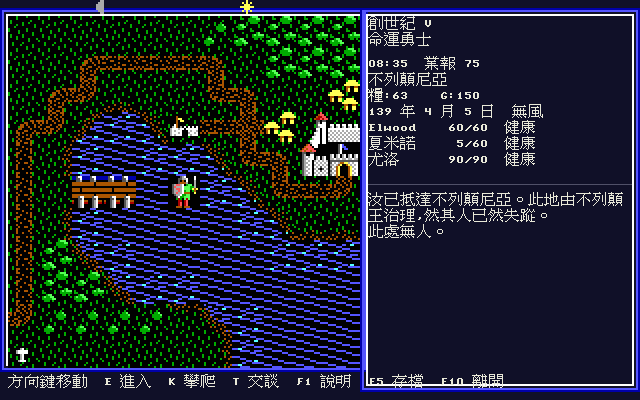
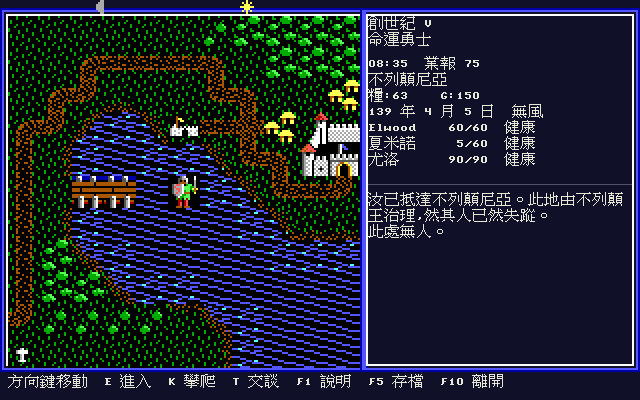
修正古典版 footer layout 並更新 README 截圖

Changed region(s): [[0.5625, 0.9, 1.0, 0.99]]

diff --git a/internal/render/chrome.go b/internal/render/chrome.go
@@ -7,6 +7,12 @@ import (
 	"github.com/wicanr2/u5-cht/internal/u5data"
 )
 
+const (
+	classicChromeTop    = 8
+	classicFooterGap    = 2
+	classicChromeHeight = HintY - classicChromeTop - classicFooterGap
+)
+
 // drawClassicChrome 畫 UIOriginal 的原版藍白框線。
 //
 // 這裡只畫外框，不重排右欄內容：中文狀態與 remake 擴充訊息仍由既有
@@ -16,11 +22,11 @@ func (s *Scene) drawClassicChrome(dst *image.NRGBA) {
 		return
 	}
 
-	// 地圖外框的內緣落在地圖外側：MapOriginY=16 正好把頂端 16 px
-	// 留給日月帶，框線不會蓋住第一列地形。
-	drawClassicFrame(dst, 0, 8, PanelX, ViewPixels+12)
-	// 右欄從地圖右側延伸到底部，訊息多時仍可在框內捲動。
-	drawClassicFrame(dst, PanelX-8, 8, CanvasWidth-PanelX+8, CanvasHeight-16)
+	// MapOriginY=16 正好把頂端 16 px 留給日月帶，框線不會蓋住第一列地形。
+	// 古典框在命令提示前收邊，下面的 footer 留給繁中提示列，避免底框穿過字形。
+	drawClassicFrame(dst, 0, classicChromeTop, PanelX, classicChromeHeight)
+	drawClassicFrame(dst, PanelX-8, classicChromeTop,
+		CanvasWidth-PanelX+8, classicChromeHeight)
 }
 
 // drawClassicFrame 是原版 EGA 藍／亮藍／白三層框線的 2× 畫布版本。

diff --git a/internal/render/chrome_test.go b/internal/render/chrome_test.go
@@ -1,0 +1,21 @@
+package render
+
+import (
+	"image"
+	"testing"
+)
+
+func TestClassicChromeLeavesFooterForHints(t *testing.T) {
+	img := image.NewNRGBA(image.Rect(0, 0, CanvasWidth, CanvasHeight))
+	fill(img, ColorBackground)
+
+	s := &Scene{UI: UIOriginal}
+	s.drawClassicChrome(img)
+
+	if got := img.At(PanelX, HintY); got != ColorBackground {
+		t.Fatalf("古典框仍畫進命令提示 footer: y=%d, got=%v", HintY, got)
+	}
+	if got := img.At(PanelX, HintY-classicFooterGap-1); got == ColorBackground {
+		t.Fatalf("古典框未在 footer 前收邊: y=%d", HintY-classicFooterGap-1)
+	}
+}

diff --git a/internal/render/scene.go b/internal/render/scene.go
@@ -498,7 +498,8 @@ func (s *Scene) drawMessages(dst *image.NRGBA) {
 		lines = append(lines, Wrap(m, PanelWidth)...)
 	}
 	top := s.messageTop()
-	avail := (CanvasHeight - 8 - top) / LineHeight
+	// HintY 以下是兩種版面共用的命令提示 footer；訊息與輸入列不能畫進去。
+	avail := (HintY - top) / LineHeight
 	switch s.State.Prompt {
 	case game.PromptTalk, game.PromptAnswer, game.PromptSpell, game.PromptShrine, game.PromptYell, game.PromptBlackthorn, game.PromptText:
 		avail-- // 留一行給輸入列

diff --git a/README.md b/README.md
@@ -50,10 +50,11 @@
 
 ### 古典版 GUI 界面
 
-![古典版 GUI 界面](docs/screenshots/26-ui-original.png)
+![古典版 GUI（命令提示 footer 不被框線遮住）](docs/screenshots/26-ui-original.png)
 
 古典版面以原版藍白框線與欄位順序為基礎；按 `F2` 可與現代版面即時切換。
-兩種版面都保留日／月指示，以及 remake 擴充的繁中訊息與狀態內容。
+框線在底部命令提示 footer 前收邊，提示文字保留獨立空間；兩種版面都保留日／月指示，
+以及 remake 擴充的繁中訊息與狀態內容。
 
 | | |
 |---|---|
@@ -80,7 +81,7 @@
 | ![聖壇石室](docs/screenshots/14-shrine-room.png) | ![離開確認框](docs/screenshots/22-quit.png) |
 | **聖壇的石室** —— 四間 11×11 的房間出自 `MISCMAPS.DAT`,踏上正確的位置才讀得到寶典那一頁 | **離開確認框** —— `F10` 才會問這一句,`ESC` 永遠是取消。答 Y 之前先存檔,所以按錯鍵不會丟進度 |
 | ![現代版面](docs/screenshots/25-ui-modern.png) | ![原版版面](docs/screenshots/26-ui-original.png) |
-| **現代版面(預設)** —— 分組留白 + 分隔線,保留日／月圖指示與 remake 擴充訊息 | **原版版面** —— 原版藍白框線 + 欄位組成與順序照原版右欄,一行接一行。`F2` 隨時切換 |
+| **現代版面(預設)** —— 分組留白 + 分隔線,保留日／月圖指示與 remake 擴充訊息 | **原版版面** —— 原版藍白框線 + 欄位組成與順序照原版右欄,底部命令提示不再被框線遮住。`F2` 隨時切換 |
 | ![主選單](docs/screenshots/24-menu.png) | ![指令說明](docs/screenshots/23-help.png) |
 | **主選單** —— 開機第一個畫面,原版的六個項目。第二項「建立新角色」是吉普賽人的七題八德淘汰賽 | **`F1` 指令說明** —— 原版把 A–Z 二十六個字母全用光了,1988 年靠的是紙本手冊。現在手邊沒那本書,所以「開門是哪個鍵」得在遊戲裡答得出來 |
 
